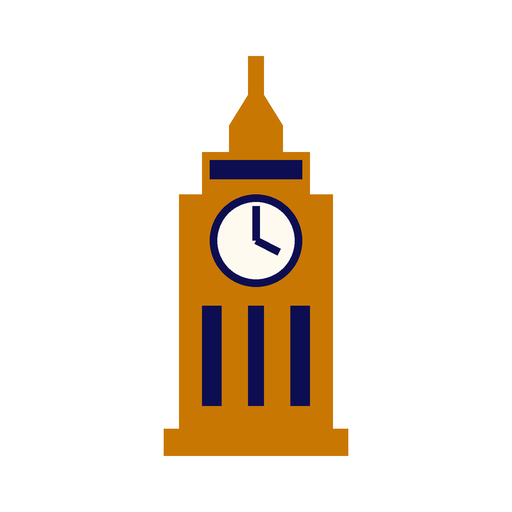
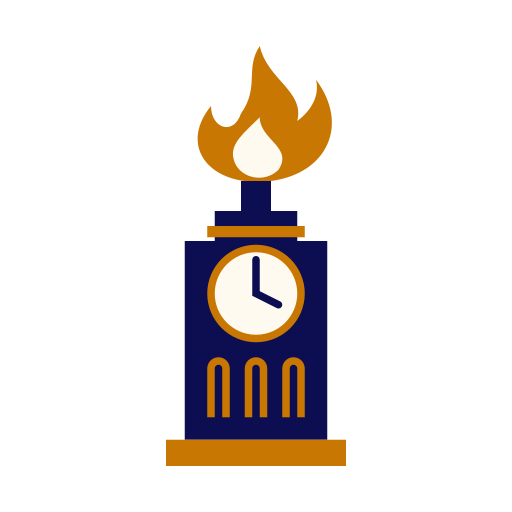
Combine Big Ben with a gold flame of liberty

Changed region(s): [[0.3125, 0.0938, 0.6875, 0.9375]]

diff --git a/index.html b/index.html
@@ -32,7 +32,7 @@
   <link rel="preconnect" href="https://fonts.googleapis.com" />
   <link rel="preconnect" href="https://fonts.gstatic.com" crossorigin />
   <link rel="stylesheet" href="https://fonts.googleapis.com/css2?family=Material+Symbols+Sharp:opsz,wght,FILL,GRAD@20..48,400..600,0..1,0" />
-  <link rel="stylesheet" href="styles.css?v=3" />
+  <link rel="stylesheet" href="styles.css?v=4" />
 </head>
 <body>
   <a class="skip-link" href="#main">Skip to events</a>
@@ -42,7 +42,7 @@
     <h1 class="brand-title">
       <button type="button" class="brand-home" id="brand-home">
         <span class="eyebrow">London, UK</span>
-        <span class="london-lockup"><img src="assets/mark.svg" width="40" height="52" alt="" /><span>London Political Events</span></span>
+        <span class="london-lockup"><img src="assets/mark.svg" width="40" height="56" alt="" /><span>London Political Events</span></span>
         <span class="brand-sub">Events, my dear boy, events</span>
       </button>
     </h1>
@@ -406,7 +406,7 @@
     <p class="about-note">An independent calendar. Sample events are fictional; the calendar is not an official listing.</p>
   </dialog>
 
-  <script src="event-data.js?v=3"></script>
-  <script src="app.js?v=3"></script>
+  <script src="event-data.js?v=4"></script>
+  <script src="app.js?v=4"></script>
 </body>
 </html>

diff --git a/sw.js b/sw.js
@@ -1,6 +1,6 @@
 /* London Political Events — shell cache, network-first events.
    Bump SHELL_CACHE when HTML, CSS, JS, fonts, or icons change. */
-const SHELL_CACHE = "london-events-main-v3";
+const SHELL_CACHE = "london-events-main-v4";
 const DATA_CACHE = "london-events-main-data-v1";
 
 const SHELL = [

diff --git a/README.md b/README.md
@@ -1,6 +1,6 @@
 # London Political Events
 
-A static London edition of [DC Political Events](https://sfox2006.github.io/DC-Political-events/), adapted from upstream commit `e7d50fe`. It retains the DC site's navy and gold identity, local Inter and Crimson Pro fonts, searchable agenda, calendar, mobile filter sheets, sharing, calendar exports, refresh and installable PWA. London uses an Elizabeth Tower mark, GBP sample prices and `Europe/London` throughout.
+A static London edition of [DC Political Events](https://sfox2006.github.io/DC-Political-events/), adapted from upstream commit `e7d50fe`. It retains the DC site's navy and gold identity, local Inter and Crimson Pro fonts, searchable agenda, calendar, mobile filter sheets, sharing, calendar exports, refresh and installable PWA. London's mark combines Big Ben with a gold flame of liberty, alongside GBP sample prices and `Europe/London` throughout.
 
 **This initial edition contains 43 simulated events.** All hosts, titles, speakers, venues, prices and perks are fictional examples. Each row and calendar card is labelled **Simulated**. Sample calendar exports are prefixed `[Simulated]`; no event registration or newsletter signup is connected.
 
